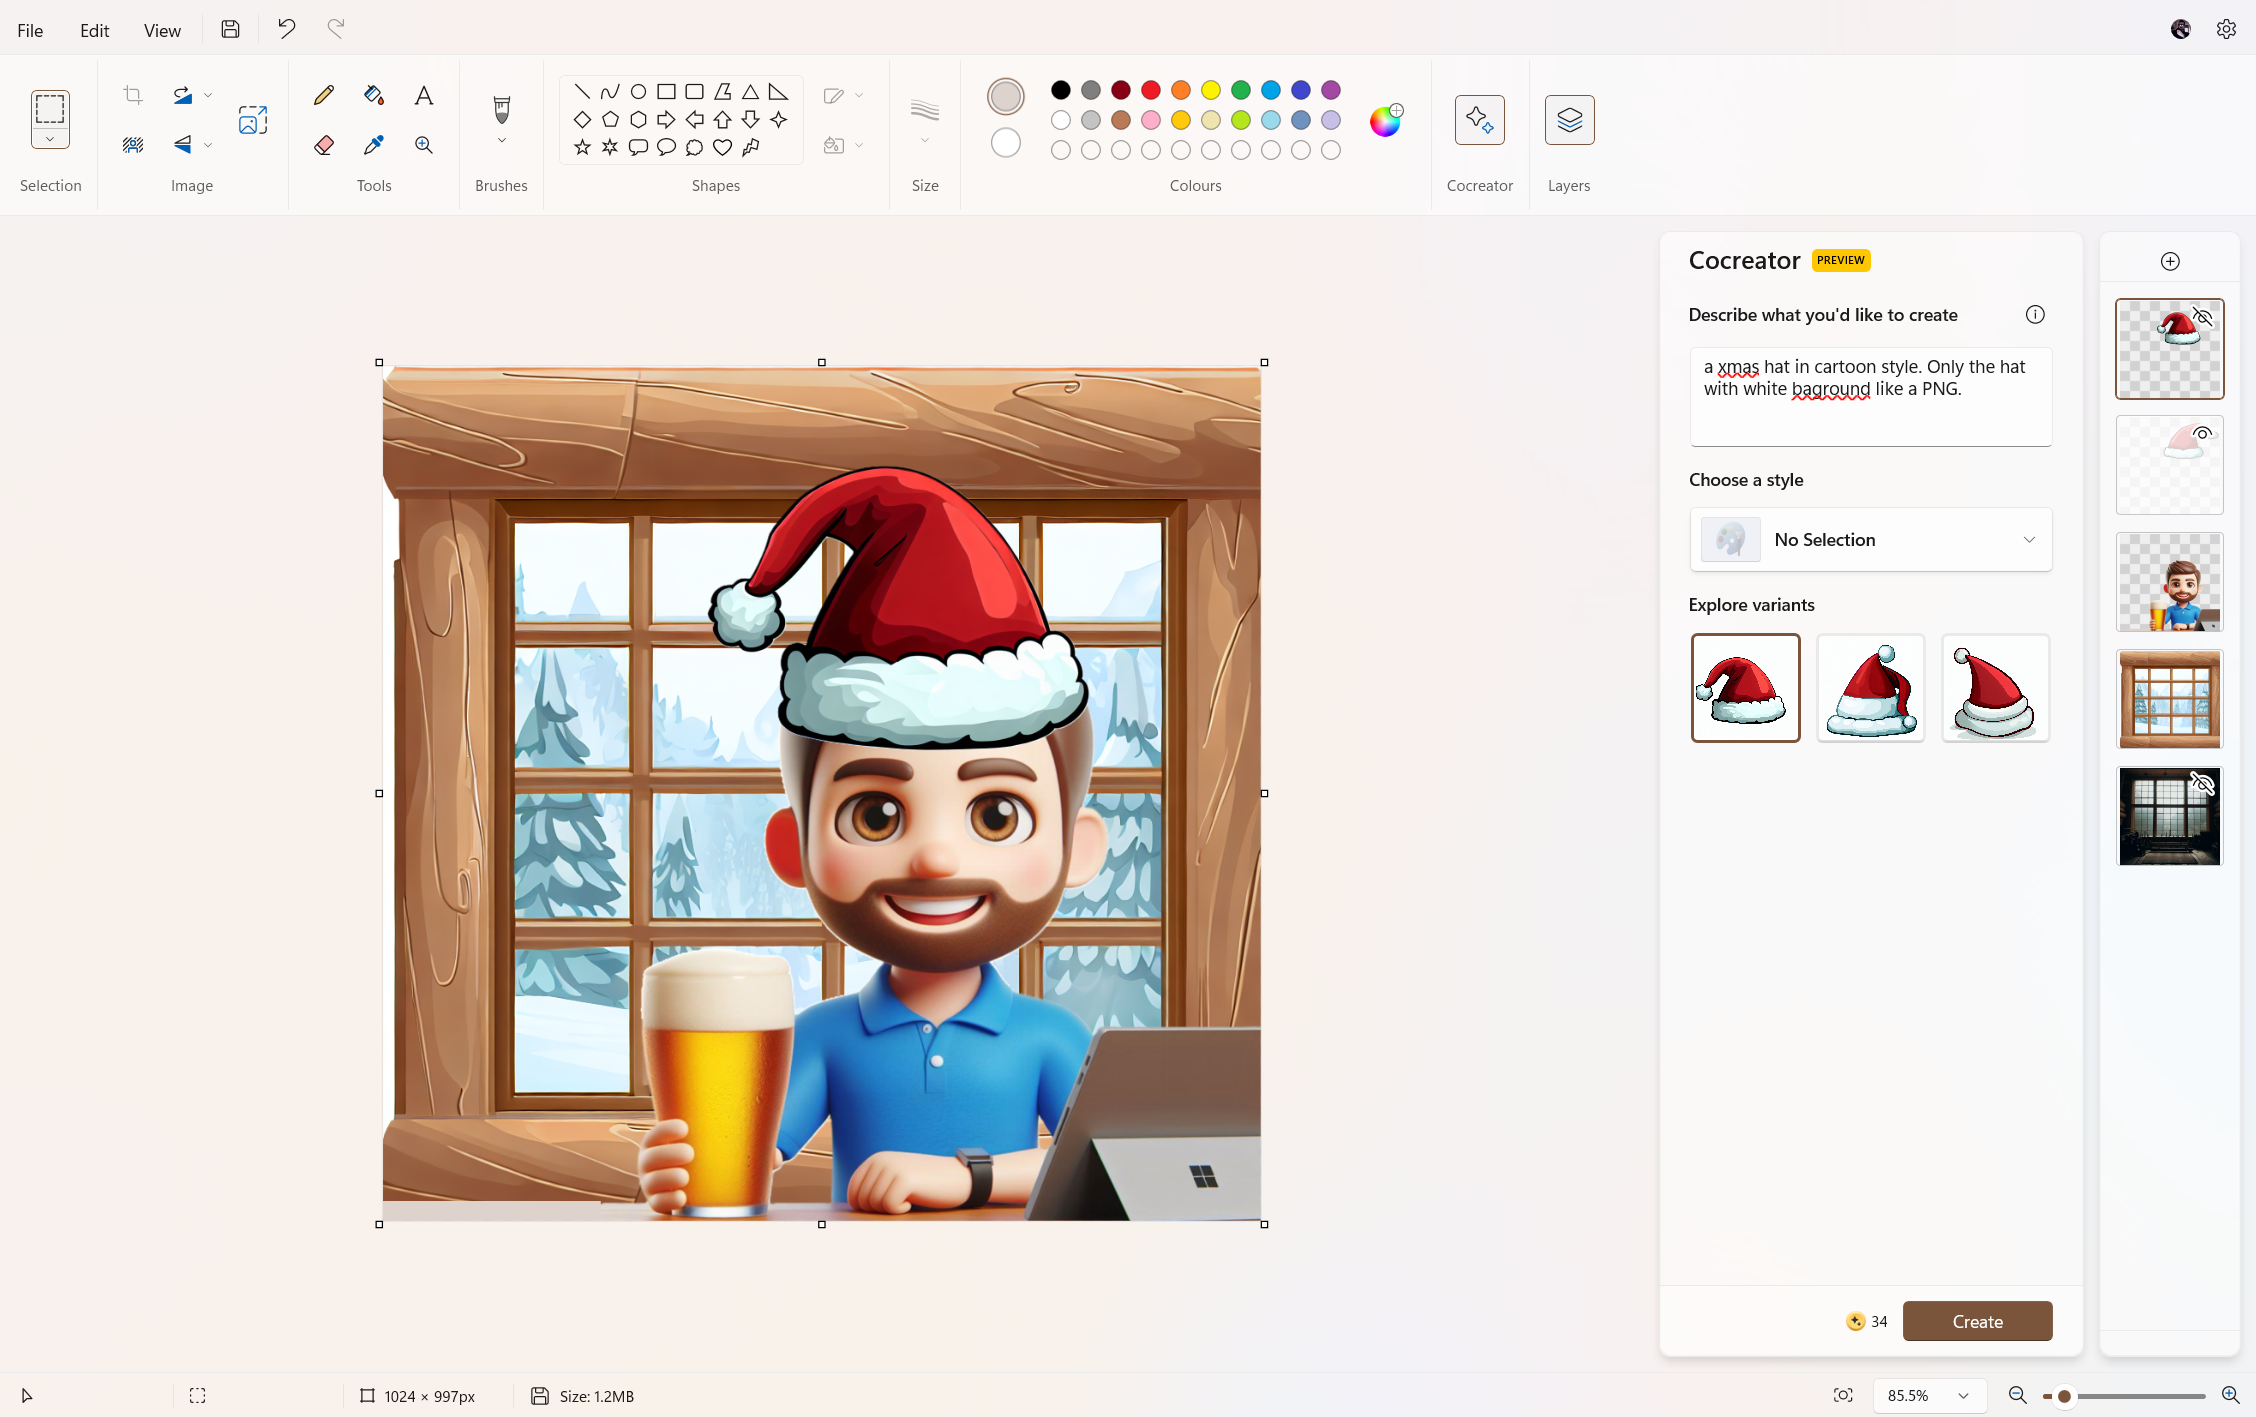
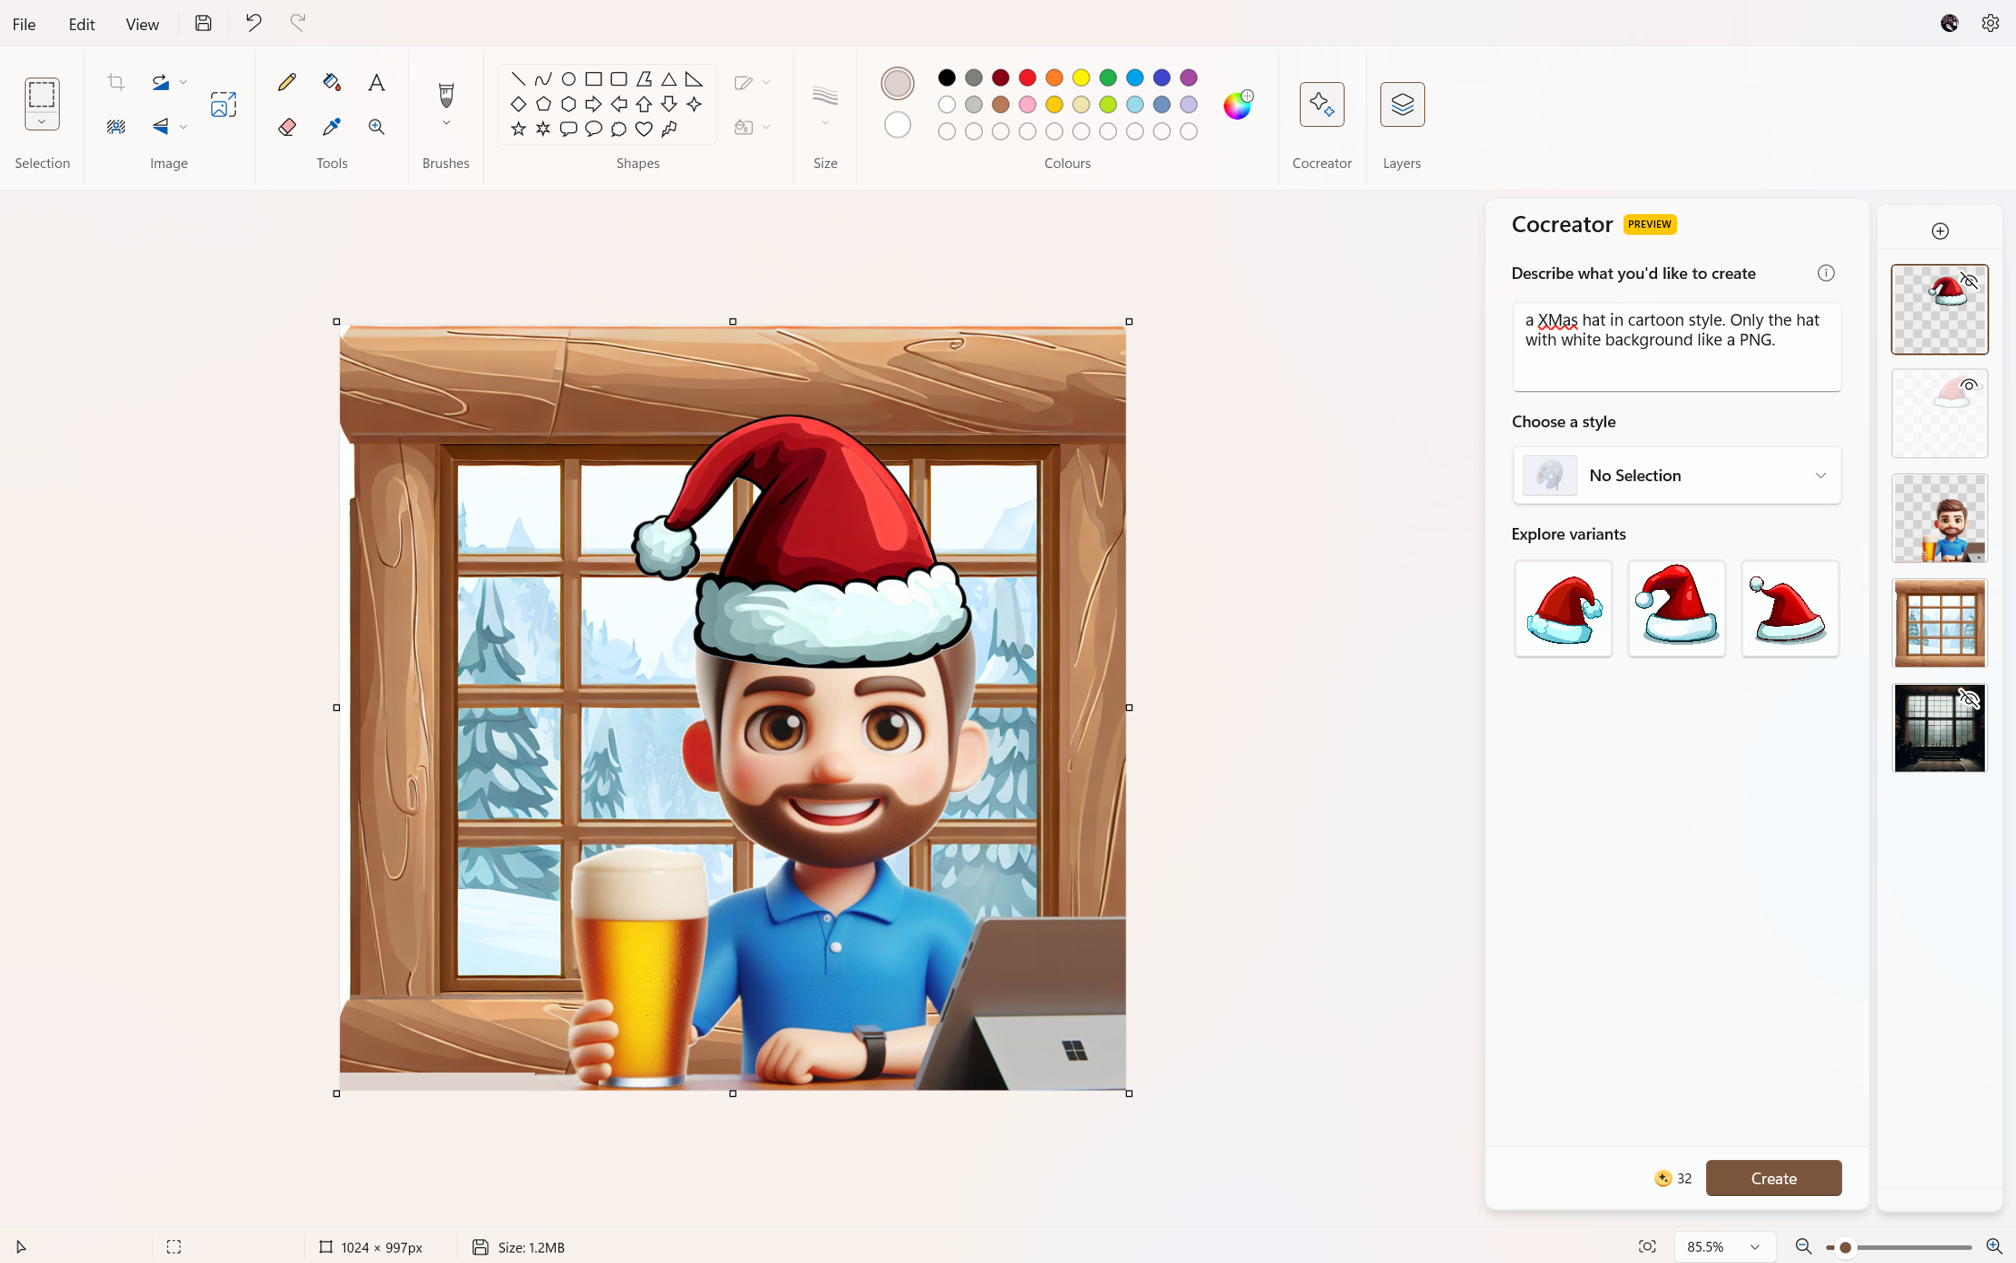
update

diff --git a/DRAFT/2023-12-10-xmas-avatar.md b/DRAFT/2023-12-10-xmas-avatar.md
@@ -20,7 +20,7 @@ Before we dive into the tinsel and lights, let's start with the basics. If you'v
 <p align="center">
 <figure align="center">
     <img src="https://malgocoder54.github.io/assets/xmas_flavour/Background_remover.png"/>
-    <figcaption  align="center">Load your avatar and click on "Remove Backround" button to have just the avatar with no background.</figcaption>
+    <figcaption  align="center"><em>Load your avatar and click on "Remove Backround" button to have just the avatar with no background.</em></figcaption>
 </figure>
 </p>
 
@@ -33,7 +33,7 @@ Now, let's get to the fun part! Layers are like the floors of a holiday departme
 <p align="center">
 <figure align="center">
     <img src="https://malgocoder54.github.io/assets/xmas_flavour/add_layer.png"/>
-    <figcaption  align="center">Load your avatar and click on "Remove Backround" button to have just the avatar with no background.</figcaption>
+    <figcaption  align="center"><em>Load your avatar and click on "Remove Backround" button to have just the avatar with no background.</em></figcaption>
 </figure>
 </p>
 
@@ -42,7 +42,7 @@ Now, the button next to the "Layers" one is where the XMas magic happens! If you
 <p align="center">
 <figure align="center">
     <img src="https://malgocoder54.github.io/assets/xmas_flavour/cocreator.png"/>
-    <figcaption  align="center">Open the cocreator ribbon</figcaption>
+    <figcaption  align="center"><em>Open the cocreator ribbon</em></figcaption>
 </figure>
 </p>
 
@@ -51,13 +51,13 @@ Now It's time to prompt! To create a background I used this one:
 `A big squared window, only the loom. the glass may be present but they must be transparent. Make it like it is in a mountain chalet, in light brown wood. Outside the window a winter forest. Make it in cartoon style`
 
 
-And I choose the one I loved the most. By having it in the second layer, the Avatar will appera to be in front of the window!
+And I choose the one I loved the most. By having it in the second layer, the Avatar will appear to be in front of the window!
 
 
 <p align="center">
 <figure align="center">
     <img src="https://malgocoder54.github.io/assets/xmas_flavour/sfondo.png"/>
-    <figcaption  align="center">Add the background</figcaption>
+    <figcaption align="center"><em>Add the background</em></figcaption>
 </figure>
 </p>
 
@@ -68,7 +68,18 @@ If you want a different flavour of the background, or the other elements, you ca
 <p align="center">
 <figure align="center">
     <img src="https://malgocoder54.github.io/assets/xmas_flavour/style_selection.png"/>
-    <figcaption  align="center">Add the background</figcaption>
+    <figcaption  align="center"><em>Select a style </em></figcaption>
+</figure>
+</p>
+
+For the final edit, I asked the cocreator to add a santa hat:
+
+`a XMas hat in cartoon style. Only the hat with white background like a PNG.`
+
+<p align="center">
+<figure align="center">
+    <img src="https://malgocoder54.github.io/assets/xmas_flavour/FinalEdit.png"/>
+    <figcaption  align="center"><em> The final edit </em></figcaption>
 </figure>
 </p>
 
@@ -83,8 +94,8 @@ Feel free to tweak the opacity of your layers for that perfect ghostly snow effe
 
 <p align="center">
 <figure align="center">
-    <img src="https://malgocoder54.github.io/assets/xmas_flavour/cocreator.png"/>
-    <figcaption  align="center">Open the cocreator ribbon</figcaption>
+    <img src="https://malgocoder54.github.io/assets/xmas_flavour/FinalImages.png"/>
+    <figcaption  align="center"><em>My XMas Avatar!</em></figcaption>
 </figure>
 </p>
 
